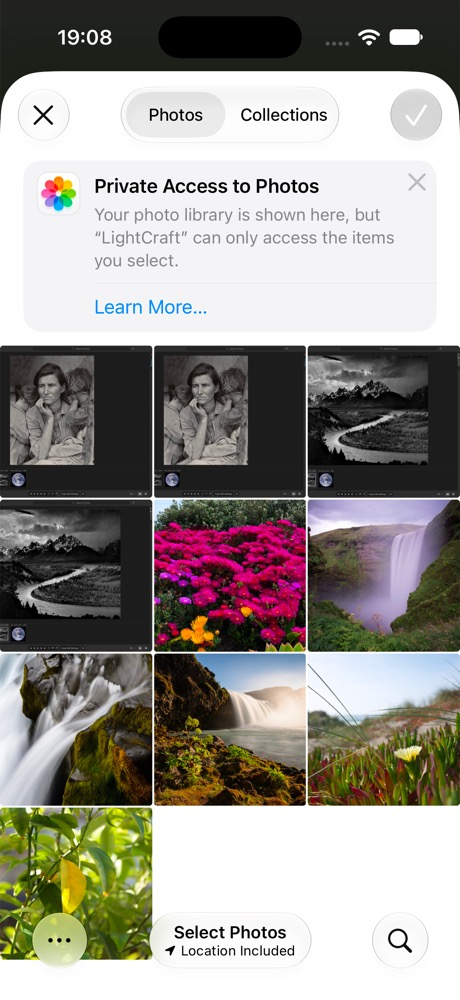
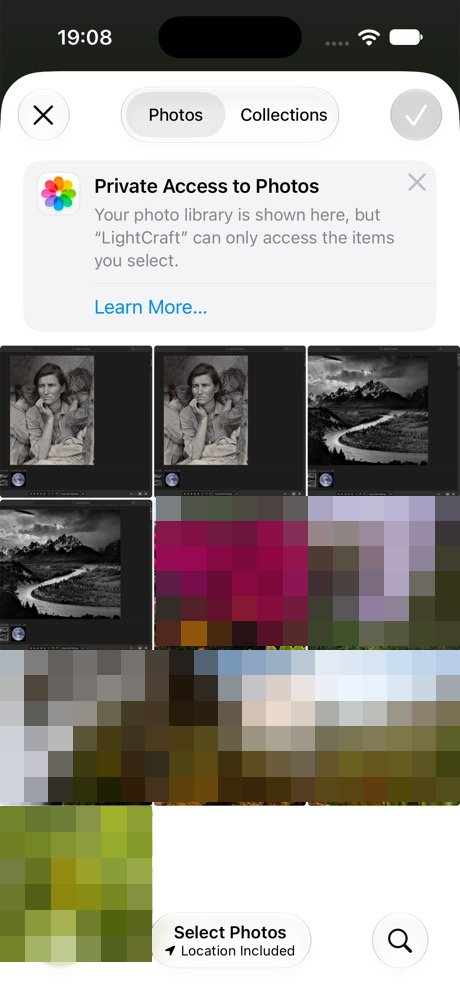
Issue #707: register lightcraft-mobile in the layer table; attribute the mobile screenshots
The mobile merge left `cargo xtask ci` red: `layers` didn't know the new app crate and
`assets` found 17 unattributed screenshots. The app is exempt like the other binaries.
The screenshots are LightCraft's own UI with procedural demo photos (and the public-domain
Tetons / Migrant Mother shots); the iOS Simulator's stock sample photos in phone-picker.jpg
are not openly licensed, so they are pixelated.

Changed region(s): [[0.0, 0.496, 1.0, 0.961]]

diff --git a/xtask/src/layers.rs b/xtask/src/layers.rs
@@ -63,6 +63,7 @@ pub const TABLE: &[(&str, Class)] = &[
     ("lightcraft", Class::Exempt),
     ("cli", Class::Exempt),
     ("web", Class::Exempt),
+    ("mobile", Class::Exempt),
     ("xtask", Class::Exempt),
 ];
 
@@ -308,7 +309,7 @@ mod tests {
 
     #[test]
     fn apps_exempt() {
-        for app in ["lightcraft", "lightcraft-cli", "lightcraft-web", "xtask"] {
+        for app in ["lightcraft", "lightcraft-cli", "lightcraft-web", "lightcraft-mobile", "xtask"] {
             assert!(check(&[c(app, &[("egui", Normal, false), ("lightcraft-ui-egui", Normal, true)])]).is_empty());
         }
     }

diff --git a/assets/ATTRIBUTION.md b/assets/ATTRIBUTION.md
@@ -23,6 +23,8 @@ covers a whole directory), or if a licence file referenced in the Licence column
 | `docs/images/*-earthrise.jpg`, `docs/images/grid-pd.jpg` | "Earthrise" (AS08-14-2383) | NASA / Bill Anders, Apollo 8 (1968) | https://commons.wikimedia.org/wiki/File:NASA-Apollo8-Dec24-Earthrise.jpg | Public domain (NASA) | 2026-09-30 | developed in LightCraft; shown inside app screenshots |
 | `docs/images/*-blue-marble.jpg`, `docs/images/grid-pd.jpg` | "The Blue Marble" (AS17-148-22727) | NASA, Apollo 17 crew (1972) | https://commons.wikimedia.org/wiki/File:The_Earth_seen_from_Apollo_17.jpg | Public domain (NASA) | 2026-09-30 | developed in LightCraft; shown inside app screenshots |
 | `docs/images/*.jpg` (UI) | LightCraft application screenshots | LightCraft contributors | original work (captured with `docs/showcase/`) | MIT OR Apache-2.0 | 2026-09-30 | n/a |
+| `apps/lightcraft-mobile/docs/screens/*.jpg` (UI) | LightCraft mobile screenshots (iOS Simulator, Android emulator) | LightCraft contributors | original work (demo library photos are procedural, `lightcraft-scenes`) | MIT OR Apache-2.0 | 2026-10-07 | the platform's own system UI (photo picker, share sheet, keyboard) appears as captured; the Simulator's stock sample photos in `phone-picker.jpg` are pixelated (not openly licensed) |
+| `apps/lightcraft-mobile/docs/screens/phone-picker.jpg`, `phone-import.jpg`, `phone-share.jpg`, `android-import.jpg` (screenshots containing them) | "The Tetons and the Snake River" (Ansel Adams, 1942) and "Migrant Mother" (Dorothea Lange, 1936) | U.S. National Archives; Farm Security Administration / Library of Congress | see the `docs/images/` rows above | Public domain (U.S. federal government works) | 2026-10-07 | shown inside app screenshots |
 | `docs/brand/` (artcraft-logo and artcraft-mark, SVG and PNG) | ArtCraft wordmark and mark | ArtCraft Team | original work (https://getartcraft.com/) | ArtCraft trademark, see `docs/brand/LICENSE-brand.txt` (not open source) | 2026-10-01 | none |
 | craft-fonts: optional build input, not files in this repository | BIZ UDPGothic (Regular, Bold), BIZ UDMincho Regular, Shippori Mincho Regular, Noto Sans CJK SC Regular | Morisawa Inc. / The BIZ UDGothic and BIZ UDMincho Project Authors; The Shippori Mincho Project Authors; Google and Adobe (Noto Sans CJK, maintainer-approved exception; see AGENTS.md) (per craft-fonts' attribution) | https://github.com/storytold/craft-fonts/blob/main/ATTRIBUTION.md | SIL Open Font License 1.1 (each font's OFL.txt in craft-fonts; release packages ship it as OFL-<family>.txt) | 2026-10-06 | none; native builds made with `CRAFT_FONTS_DIR` embed the manifest fonts (all official releases); the web build embeds BIZ UDPGothic Regular and ships Noto Sans CJK SC Regular as a separate font file |
 | `crates/ui-egui/locales/uk.json`, `crates/ui-egui/locales/uk-formats.json` | Ukrainian interface catalogs | @dmatviichuk with Codex; PhotoCraft, FilmCraft and VectorCraft translation contributors for reused labels | original translations from English source; 337 initial English-key matches reviewed from [PhotoCraft 69c41f3](https://github.com/storytold/photocraft/blob/69c41f3523e147eb215da8c7b4c29b18b35d1c63/crates/ui-egui/src/i18n/uk.tsv), [FilmCraft 4854c27](https://github.com/storytold/filmcraft/blob/4854c277536fe8118257362304b6a7d82d8e704b/crates/ui-egui/src/i18n/uk.tsv), [VectorCraft 4b44265](https://github.com/storytold/vectorcraft/blob/4b44265965fdd6ffedfd6182a892c1a6c360d344/crates/ui-egui/src/i18n/uk.tsv) | MIT OR Apache-2.0 (`LICENSE-MIT`, `LICENSE-APACHE`, also the source repositories' licences) | 2026-10-09 | adapted to LightCraft photo-development context, completed catalogs, reviewed spelling and placeholders |
